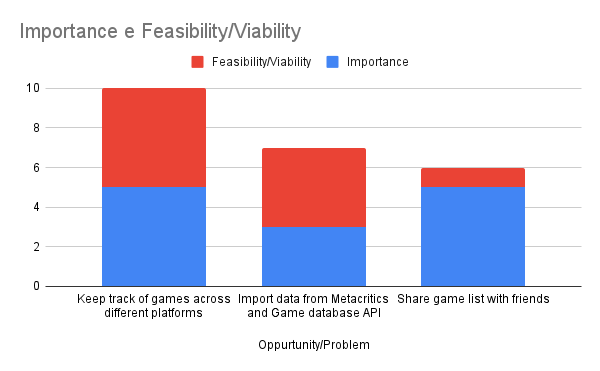
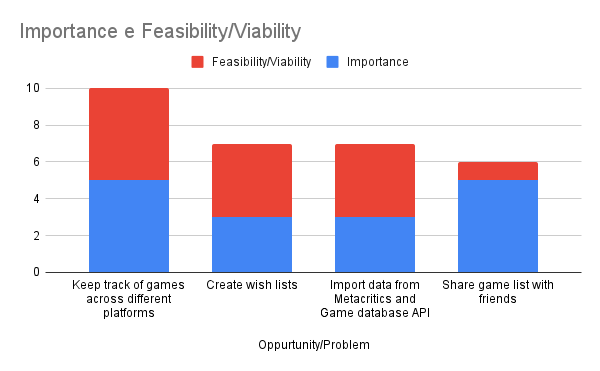
docs: add complete planning

diff --git a/README.md b/README.md
@@ -23,14 +23,16 @@ Embark on a new chapter of gaming with The Gamer Library — where your gaming h
   - [Site Overview](#site-overview)
   - [Table of Contents](#table-of-contents)
   - [Planning phase](#planning-phase)
-    - [**Strategy plane**](#strategy-plane)
+    - [Strategy plane](#strategy-plane)
     - [Scope plane](#scope-plane)
+  - [Bugs](#bugs)
+  - [Diary](#diary)
 
 ---
 
 ## Planning phase
 
-### **Strategy plane**
+### Strategy plane
 
 he Gamer Library, a dynamic web app, distinguishes itself by providing a culturally rich and relevant gaming experience. Users can intuitively track and catalog their gaming journey through a web app interface designed for modern gamers. What sets The Gamer Library apart is the fusion of intuitive tracking features and a user-friendly web app interface, offering more than a traditional game library; it provides a comprehensive gaming experience.
 
@@ -49,7 +51,8 @@ In a landscape filled with competitors, The Gamer Library distinguishes itself b
 | Keep track of games                               | 5          | 5                     |
 | Import data from Metacritics and Game database API| 3          | 4                     |
 | Share game list with friends                      | 5          | 1                     |
-H
+| Create wishlists                                  | 3          | 4                     |
+
 ![Strategy plan chart](/docs_images/strategy_plan_plot.png)
 
 ### Scope plane
@@ -87,8 +90,22 @@ divide content in multiple pages
 nanvigation trough icons
 create wireframe
 
+![Wireframe](/docs_images/Wireframe.png)
+
 - **Surface plane**
 font contrast
 contrast font and background
 contrast between different section in colors
 keep consitancy
+
+## Bugs
+
+## Diary
+
+**11/12/2023**
+Add user stories template
+add labels
+add user storied
+add sprint 1
+add wireframe
+update feasibility importance plot
